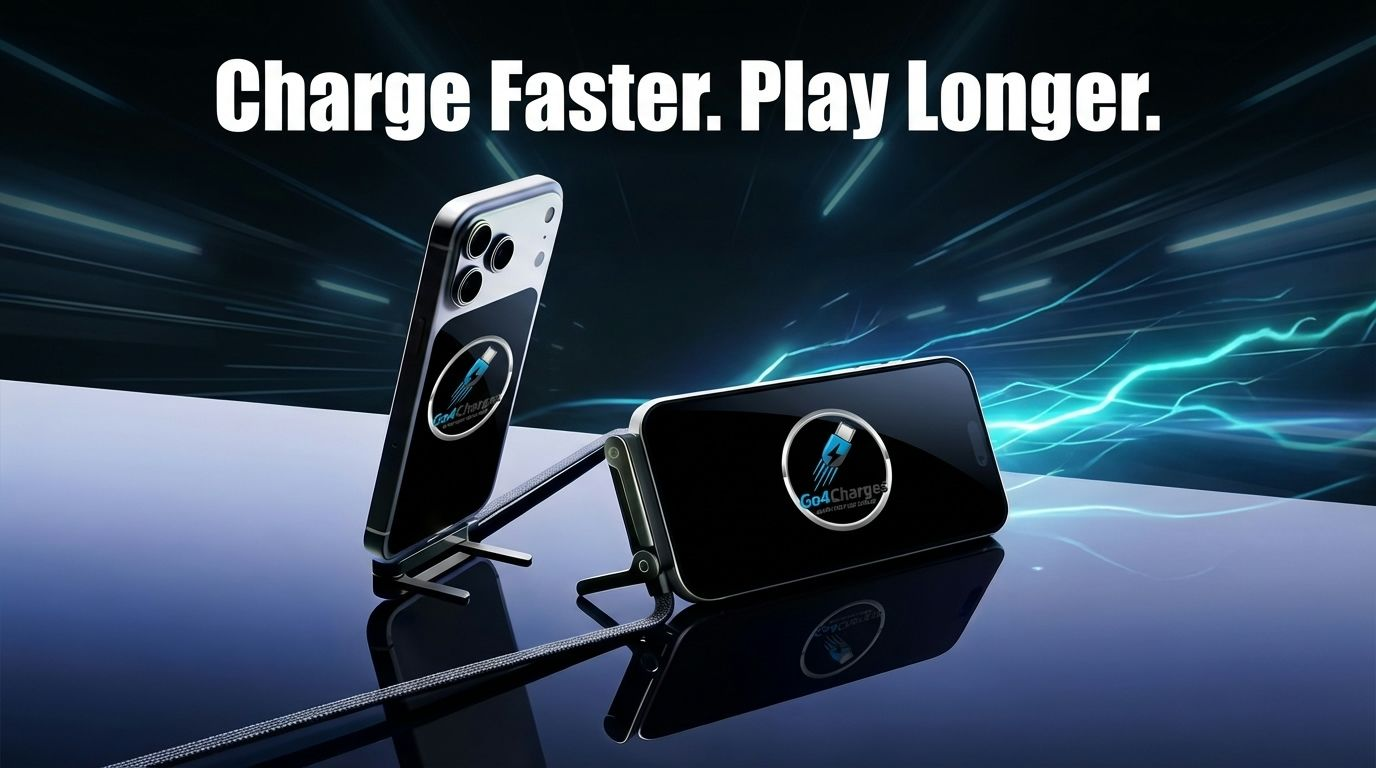
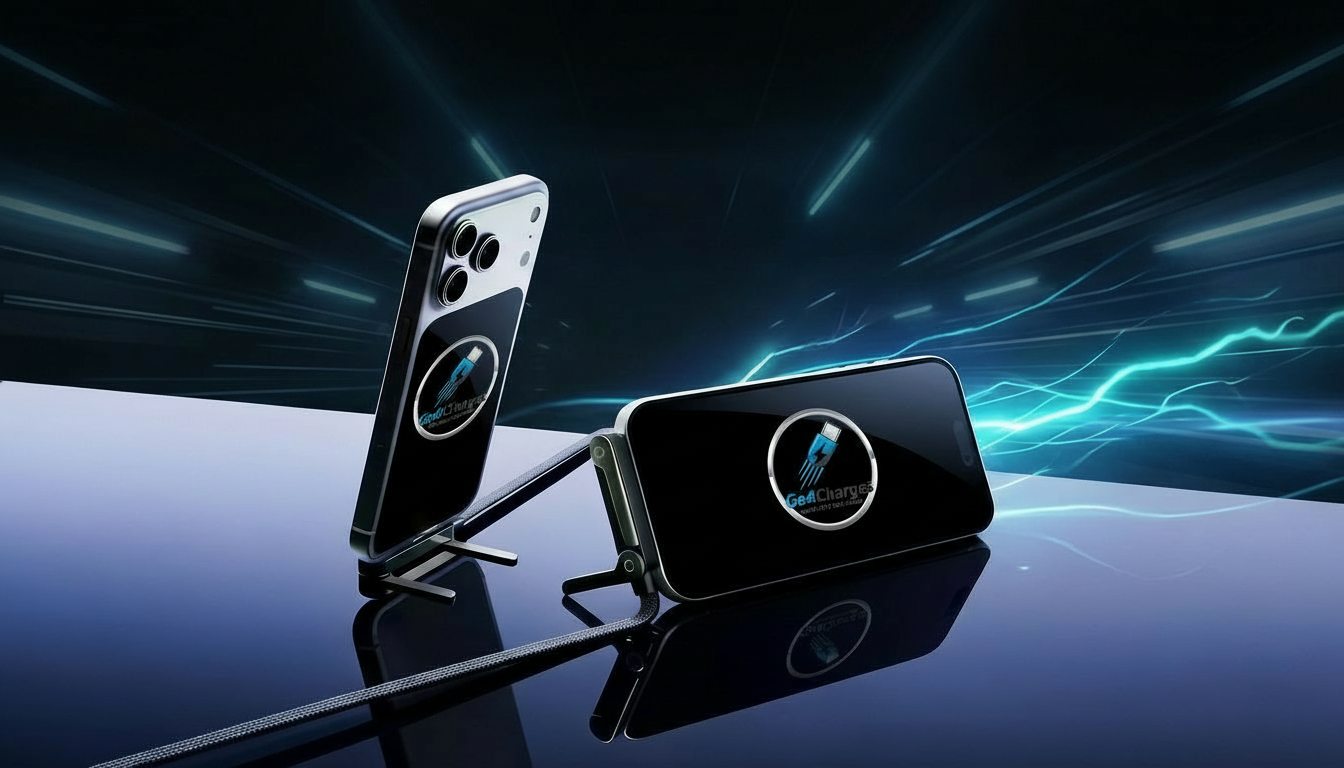
Changes

diff --git a/src/components/HeroSection.tsx b/src/components/HeroSection.tsx
@@ -14,11 +14,11 @@ export const HeroSection = () => {
       <div className="absolute inset-0 z-0">
         <img 
           src={heroImage} 
-          alt="Go4Charges - Charge Faster. Play Longer." 
-          className="w-full h-full object-contain md:object-cover object-top"
+          alt="Go4Charges - Premium Charging Cable" 
+          className="w-full h-full object-cover object-center"
         />
-        {/* Very subtle overlay only on left side for text readability */}
-        <div className="absolute inset-0 bg-gradient-to-r from-background/60 via-transparent to-transparent" />
+        {/* Subtle overlay for text readability */}
+        <div className="absolute inset-0 bg-gradient-to-r from-background/70 via-background/30 to-transparent" />
       </div>
 
       <div className="relative z-10 container mx-auto px-4 py-16 md:py-28 lg:py-36">
